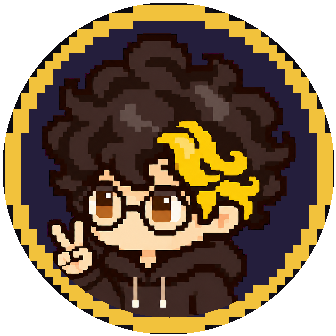
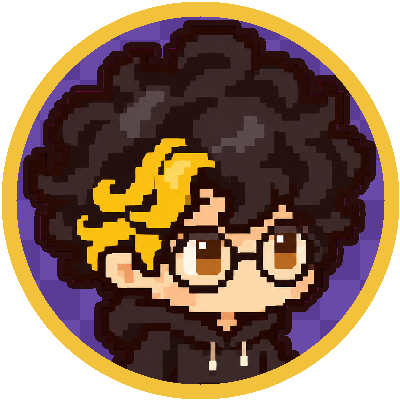
홍보: 추가 이야기 시안, 프로필 원형 배지·말풍선 제거

diff --git a/홍보/소스/초안/포인트시안.js b/홍보/소스/초안/포인트시안.js
@@ -37,6 +37,6 @@ const A=bubble('개발 과정을 <span class="hl">기록</span>으로 남기고 
 const item=(n,h,d)=>`<div class="pi sh"><div class="o"><div class="in"><span class="nb">${n}</span><span class="pt"><span class="ph">${h}</span><span class="pd">${d}</span></span></div></div></div>`;
 const B=`<div class="tag sh"><div class="o"><div class="in">POINT!</div></div></div>`+item(1,'기록','개발 과정을 남겨요')+item(2,'바람','누군가에게 도움이 되면 좋겠어요')+item(3,'다음 화','덩치 배치 이야기');
 fs.mkdirSync(OUT,{recursive:true});
-const X='<div class="bb sh"><div class="o"><div class="in">사실 이 세 가지 말고도 쓸 말이 많았어요. 다음 화부터 하나씩 풀게요.</div></div><div class="pt"></div></div><div class="bd"><div class="av"></div><div class="nm">빅토리</div></div>';
+const X='<div class="bd"><div class="av"></div></div>';
 for(const [n,h,x] of [['좌영상_A_이야기',A,''],['좌영상_B_POINT',B,''],['좌영상_C_추가이야기',B,X]]){const f=path.join(OUT,n+'.html');fs.writeFileSync(f,page(h,x));execFileSync(E,['--headless','--disable-gpu','--hide-scrollbars','--force-device-scale-factor=1','--window-size=1920,1080','--screenshot='+path.join(OUT,n+'.png'),'file:///'+f.split(path.sep).join('/')],{stdio:'ignore'});fs.unlinkSync(f)}
 console.log('ok');

diff --git a/개발일지/2026-11-26/홍보.md b/개발일지/2026-11-26/홍보.md
@@ -13,3 +13,7 @@
 ## 추가 이야기 시안: 배너의 동그란 배지로 교체
 - 한 것: 사용자 "동그란 원 그 이미지, 배너 때 쓴 거". 배너에서 배지를 잘라 원형 투명(`홍보/소스/채널/배지_원.png`)으로 만들어 우하단 배지에 적용. 시안 C 갱신.
 - 결과: 가장자리 깔끔함. 해상도는 배너 크롭이라 낮을 수 있음(필요하면 이미지 세션에 원본 요청). 영상은 안 만듦.
+
+## 추가 이야기 시안 수정: 말풍선 뺌, 프로필 이미지로 배지
+- 한 것: 사용자 "V 안 하는 프로필 캐릭터로, 테두리만, 말풍선은 빼(자막이 나올 거니까)". 배지를 `프로필.png` + 노랑 원 테두리로 다시 만들고(`홍보/소스/채널/배지_원.png`, 400px) 말풍선·이름 글자를 뺌. 시안 C 갱신.
+- 결과: 항목 어두움 + 우하단 배지만. 말은 자막으로 처리(자막 위치·모양은 미정).
